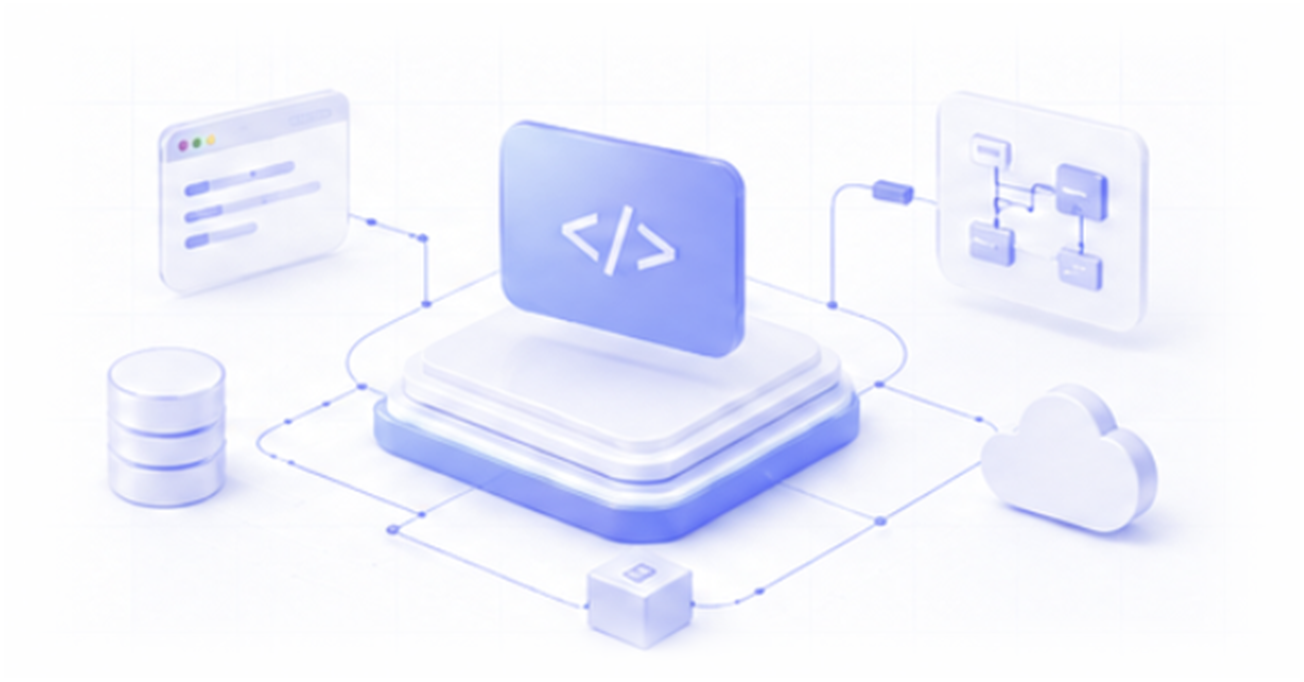
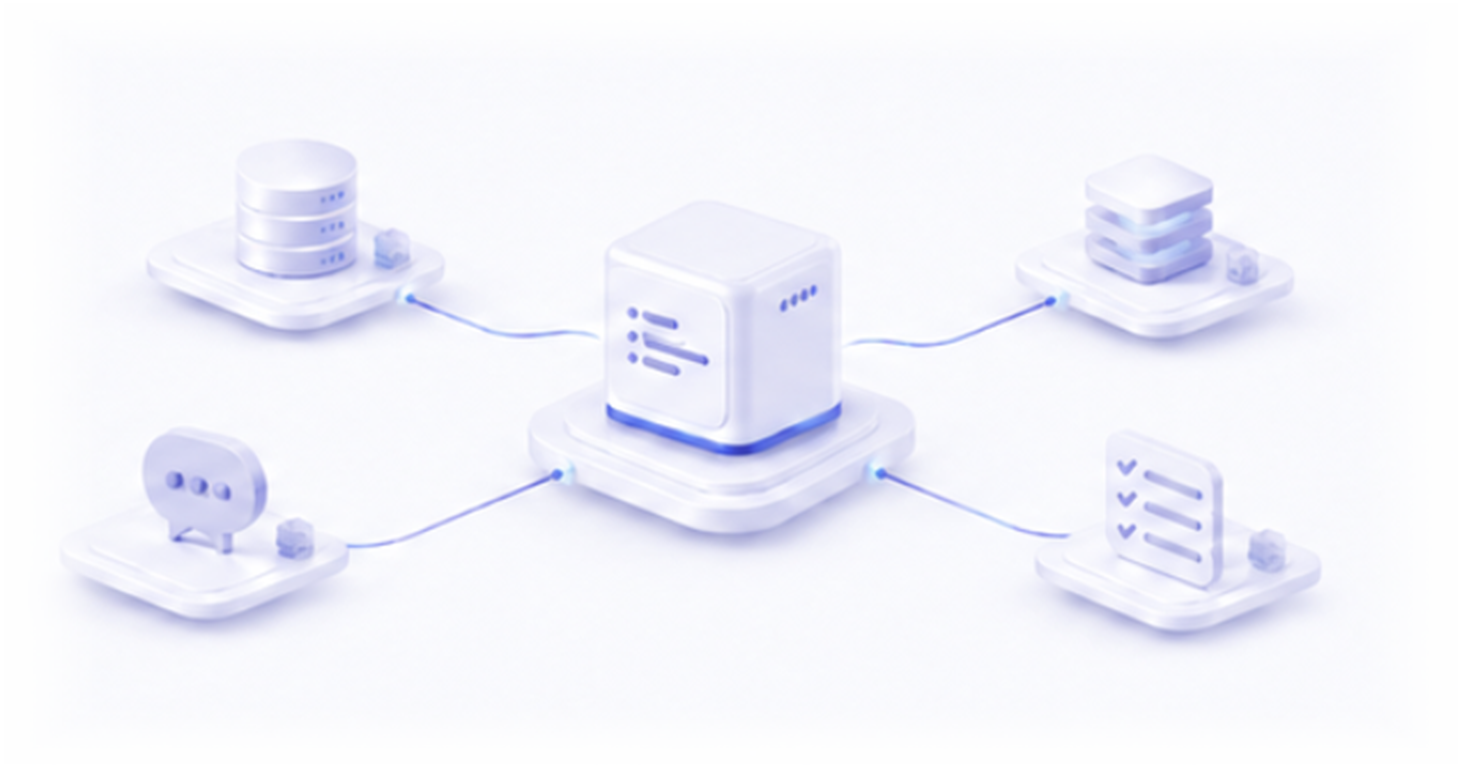
fix: CAPABILITIES 페이지 수정

diff --git a/src/styles/global.css b/src/styles/global.css
@@ -2040,7 +2040,7 @@ footer {
   width: min(100%, 42rem);
   height: auto;
   object-fit: contain;
-  filter: saturate(1.04) contrast(1.03);
+  filter: saturate(1.05) contrast(1.03);
   transform: translateX(clamp(-0.8rem, -1vw, -0.25rem));
   user-select: none;
 }
@@ -2058,7 +2058,7 @@ footer {
   position: relative;
   min-width: 0;
   min-height: clamp(7.65rem, 8.45vw, 8.85rem);
-  padding: clamp(0.88rem, 1.02vw, 1.05rem);
+  padding: clamp(0.95rem, 1.08vw, 1.12rem);
   overflow: hidden;
   border: 1px solid rgba(111, 127, 221, 0.16);
   border-radius: 1rem;
@@ -2105,6 +2105,8 @@ footer {
 }
 
 .capability-page-list h2 {
+  display: flex;
+  align-items: center;
   min-height: clamp(1.85rem, 2.2vw, 2.05rem);
   margin: 0 0 0 3rem;
   color: #101626;
@@ -2120,8 +2122,11 @@ footer {
   display: flex;
   flex-wrap: wrap;
   gap: 0.34rem;
+  min-height: clamp(1.35rem, 1.55vw, 1.5rem);
   padding: 0;
-  margin: clamp(0.45rem, 0.62vw, 0.58rem) 0 0;
+  margin: clamp(0.58rem, 0.78vw, 0.78rem) 0 0;
+  align-content: flex-start;
+  align-items: flex-start;
   list-style: none;
 }
 
@@ -2138,11 +2143,11 @@ footer {
 }
 
 .capability-page-list__content > p {
-  margin: clamp(0.5rem, 0.68vw, 0.68rem) 0 0;
+  margin: clamp(0.72rem, 0.92vw, 0.9rem) 0 0;
   color: #263044;
   font-size: clamp(0.78rem, 0.82vw, 0.86rem);
   font-weight: 540;
-  line-height: 1.7;
+  line-height: 1.6;
   word-break: keep-all;
 }
 
@@ -3454,7 +3459,7 @@ footer {
 
   .capability-page-list article {
     min-height: 6.95rem;
-    padding: 0.72rem;
+    padding: 0.78rem;
     border-radius: 0.8rem;
   }
 
@@ -3466,6 +3471,8 @@ footer {
   }
 
   .capability-page-list h2 {
+    display: flex;
+    align-items: center;
     min-height: 1.55rem;
     margin-left: 2.55rem;
     font-size: 0.86rem;
@@ -3474,7 +3481,10 @@ footer {
 
   .capability-page-list ul {
     gap: 0.28rem;
-    margin-top: 0.38rem;
+    min-height: 1.08rem;
+    margin-top: 0.46rem;
+    align-content: flex-start;
+    align-items: flex-start;
   }
 
   .capability-page-list li {
@@ -3483,9 +3493,9 @@ footer {
   }
 
   .capability-page-list__content > p {
-    margin-top: 0.42rem;
+    margin-top: 0.52rem;
     font-size: 0.7rem;
-    line-height: 1.5;
+    line-height: 1.55;
   }
 
   .capabilities-contact {